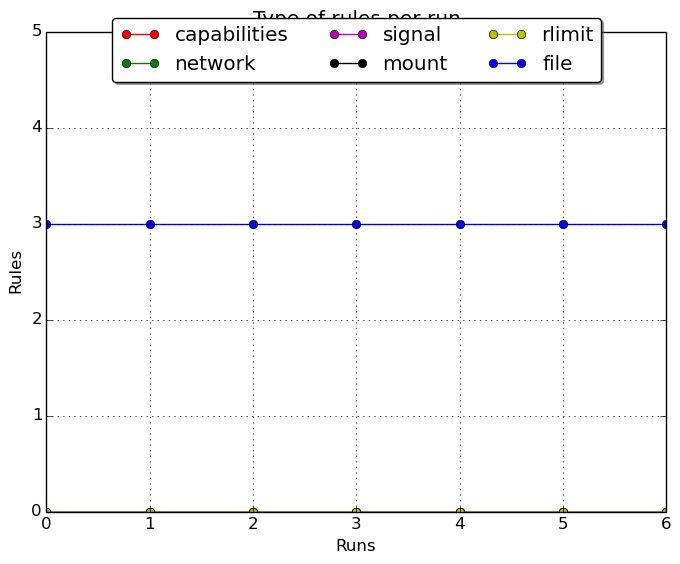
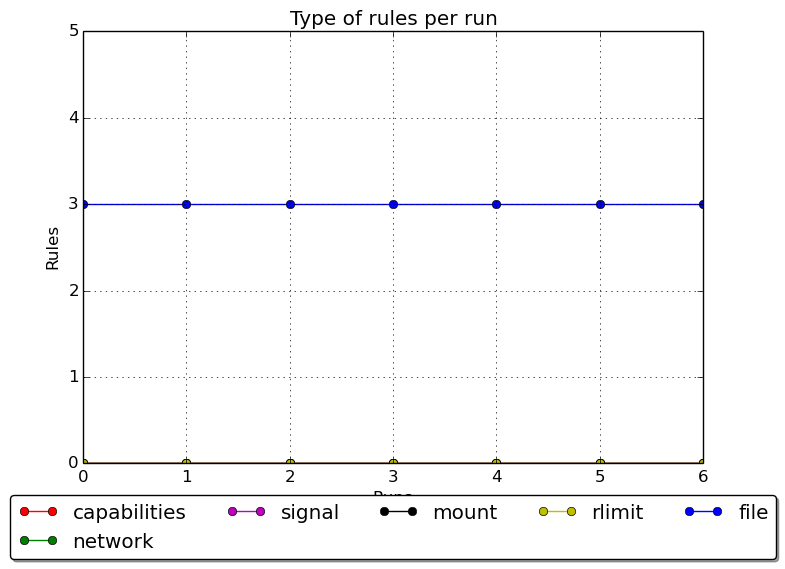
Fixing position of legend of plots

diff --git a/Benchmarks/media-streaming/Parser/metrics/plot_type_rules.py b/Benchmarks/media-streaming/Parser/metrics/plot_type_rules.py
@@ -99,8 +99,17 @@ ax.plot(x_Axis, rlimit, label="rlimit", color="y", marker='o')
 ax.plot(x_Axis, file_rules, label="file", color="b", marker='o')
 
 #ax.legend(loc=0)
-ax.legend(loc='upper center', bbox_to_anchor=(0.5, 1.05),
-                  ncol=3, fancybox=True, shadow=True)
+#ax.legend(loc='upper center', bbox_to_anchor=(0.5, 1.05),
+#                  ncol=3, fancybox=True, shadow=True)
+
+box = ax.get_position()
+ax.set_position([box.x0, box.y0 + box.height * 0.1,
+                     box.width, box.height * 0.9])
+
+# Put a legend below current axis
+ax.legend(loc='upper center', bbox_to_anchor=(0.5, -0.05),
+                  fancybox=True, shadow=True, ncol=5)
+
 ax.grid()
 ax.set_xlabel("Runs")
 ax.set_ylabel(r"Rules")

diff --git a/Parser/metrics/plot_type_rules.py b/Parser/metrics/plot_type_rules.py
@@ -99,8 +99,17 @@ ax.plot(x_Axis, rlimit, label="rlimit", color="y", marker='o')
 ax.plot(x_Axis, file_rules, label="file", color="b", marker='o')
 
 #ax.legend(loc=0)
-ax.legend(loc='upper center', bbox_to_anchor=(0.5, 1.05),
-                  ncol=3, fancybox=True, shadow=True)
+#ax.legend(loc='upper center', bbox_to_anchor=(0.5, 1.05),
+#                  ncol=3, fancybox=True, shadow=True)
+
+box = ax.get_position()
+ax.set_position([box.x0, box.y0 + box.height * 0.1,
+                     box.width, box.height * 0.9])
+
+# Put a legend below current axis
+ax.legend(loc='upper center', bbox_to_anchor=(0.5, -0.05),
+                  fancybox=True, shadow=True, ncol=5)
+
 ax.grid()
 ax.set_xlabel("Runs")
 ax.set_ylabel(r"Rules")
